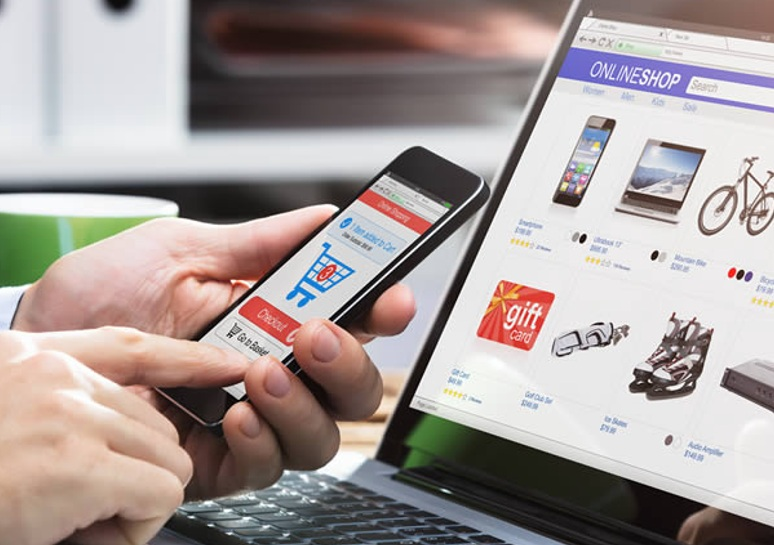
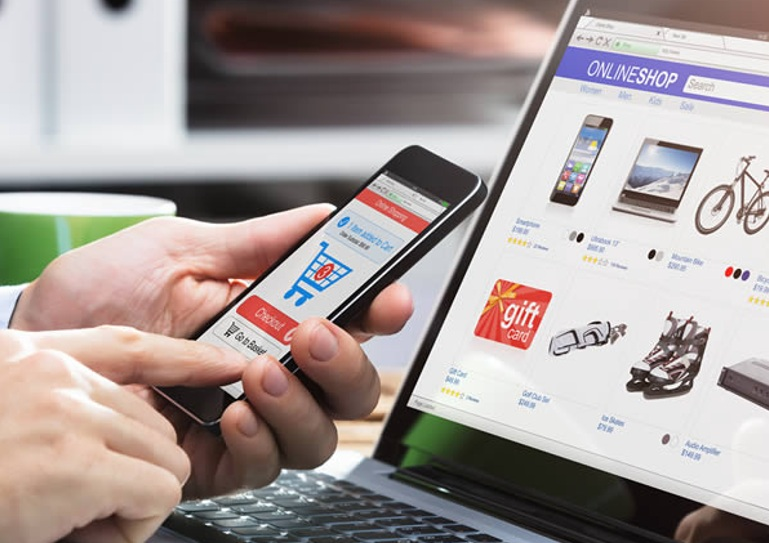
IMG: Fix img about

diff --git a/css/style.css b/css/style.css
@@ -263,19 +263,19 @@ hr {
 /* Caja del modal */
 .modal-contenido {
   width: 30%;
-  background: rgb(0, 50, 50, 0.9);
-  padding: 20px;
+  background: #dcdcdc;
+  padding: 30px;
   border-radius: 10px;
   position: relative;
-  color: #dcdcdc;
+  color: #000;
   box-shadow: 0 10px 10px rgba(0, 0, 0, 1);
 }
 
 .imgAbout {
   width: 90%;
-  border-radius: 50%;
-  margin-bottom: 20px;
-  box-shadow: 0 10px 10px rgba(0, 0, 0, 1);
+  border-radius: 10px;
+  margin: 10px;
+  /* box-shadow: 0 10px 10px rgba(0, 0, 0, 1); */
 }
 
 .btnCerrar {
